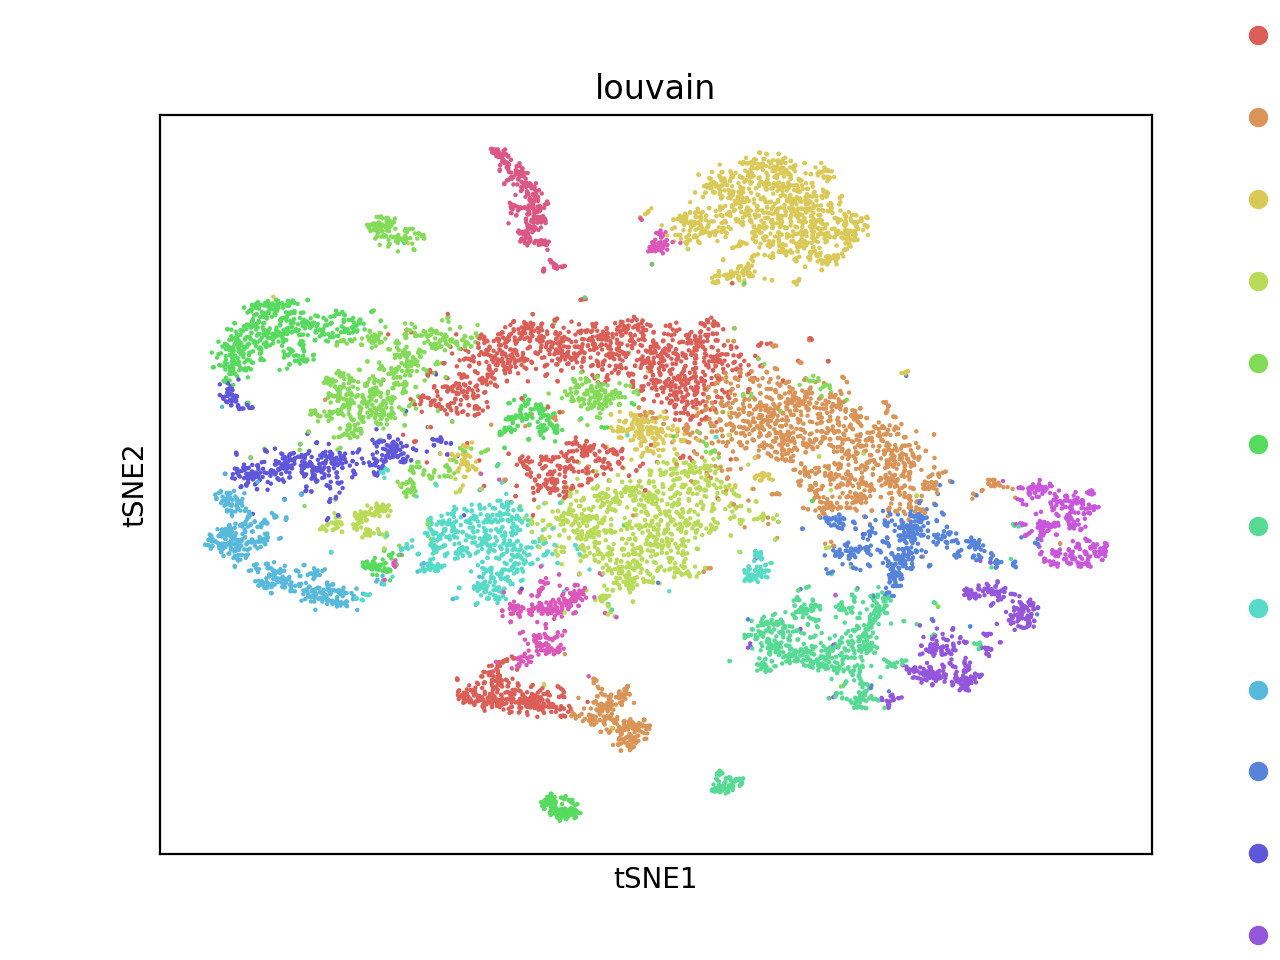
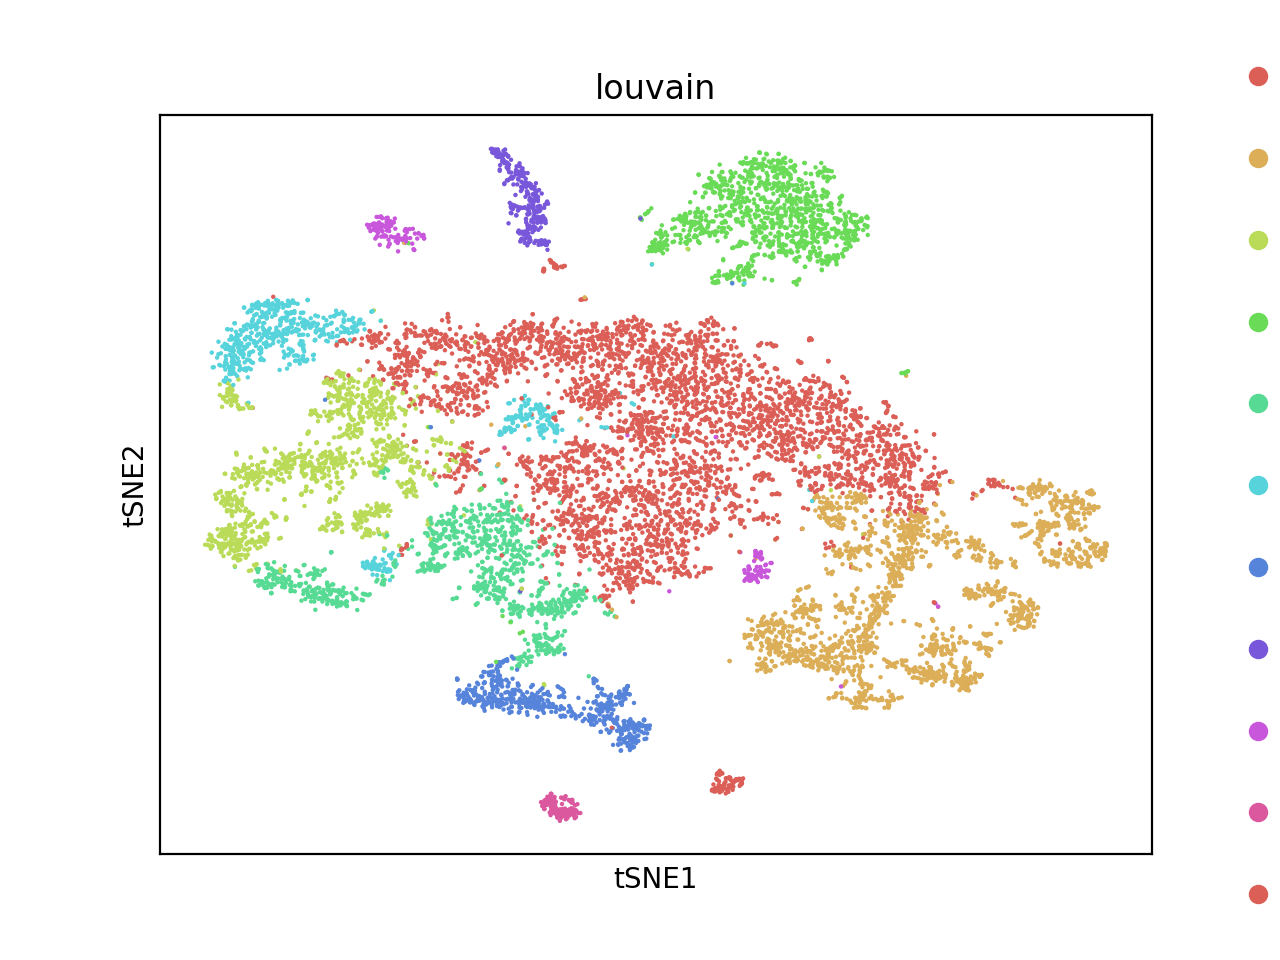
graphs

diff --git a/week11-lab/mapscript.py b/week11-lab/mapscript.py
@@ -20,6 +20,6 @@ sc.pp.log1p(adata)
 sc.pp.scale(adata)
 
 sc.pp.neighbors(adata)
-sc.tl.louvain(adata)    
+sc.tl.louvain(adata,  resolution = 0.3)    
 sc.tl.umap(adata)
-sc.pl.umap(adata, color=['louvain'],  palette=sns.color_palette("hls", 23), legend_loc='on data')
+sc.pl.umap(adata, color=['louvain'],  palette=sns.color_palette("hls", 10), legend_loc='on data')

diff --git a/week11-lab/louvain1.py b/week11-lab/louvain1.py
@@ -18,11 +18,11 @@ sc.pp.log1p(adata)
 sc.pp.scale(adata)
 
 sc.pp.neighbors(adata)
-sc.tl.louvain(adata)
-sc.tl.tsne(adata)
+sc.tl.louvain(adata, resolution = 0.3)
+sc.tl.tsne(adata )
 
 sc.pl.tsne(adata, 
 color = ['louvain'],
-palette=sns.color_palette("hls", 15),
+palette=sns.color_palette("hls", 10),
 legend_fontsize="20") 
     
